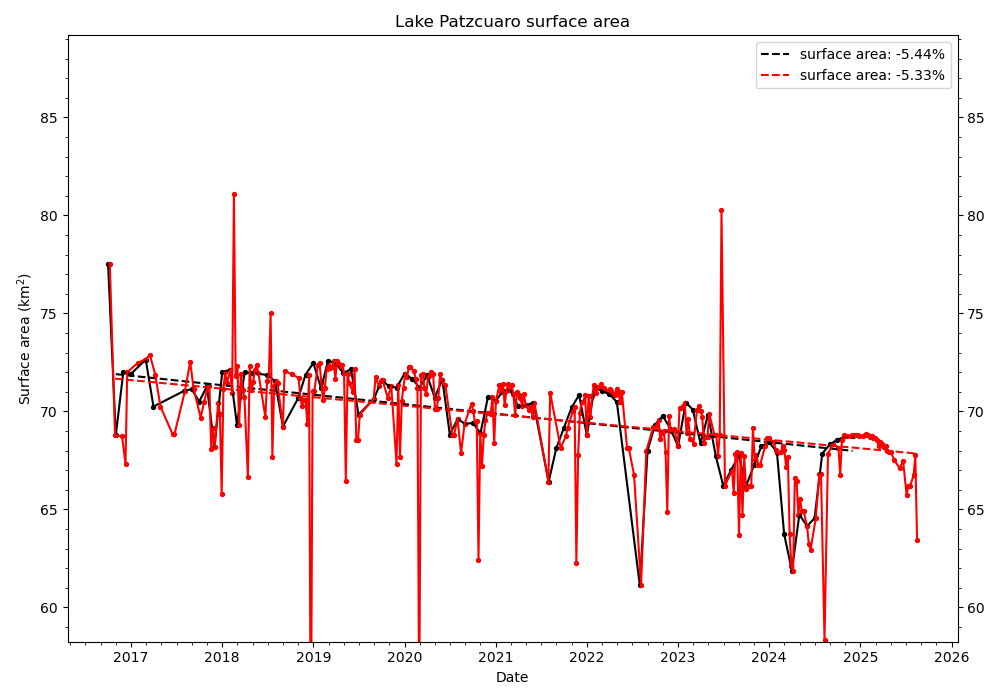
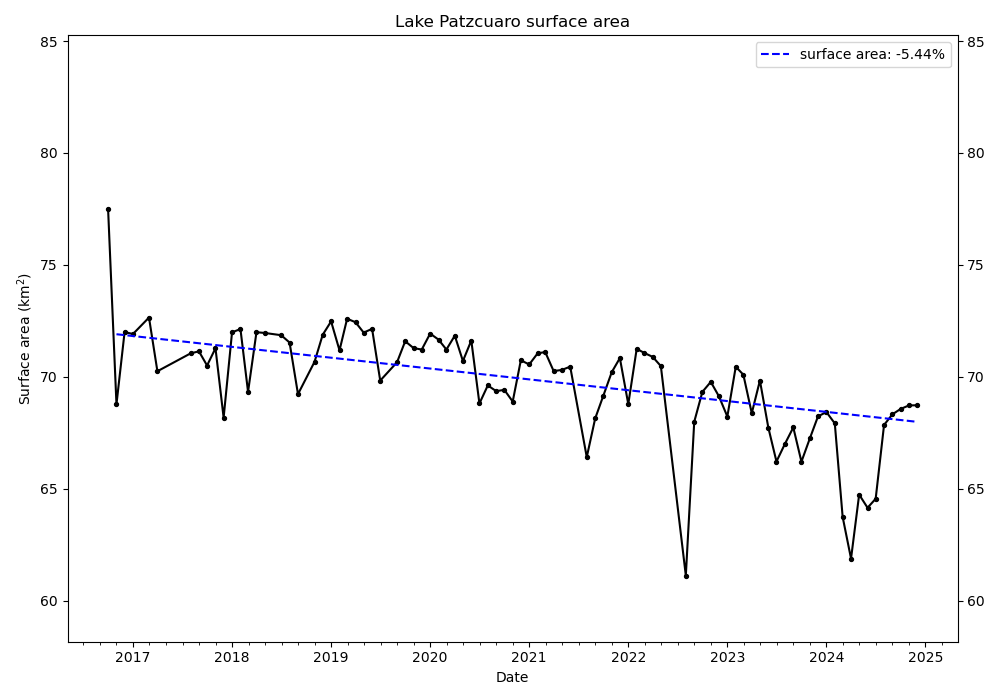
Bug correction: The last year was not considered with monthly sampling

diff --git a/extract_lake_area_in_time.py b/extract_lake_area_in_time.py
@@ -52,7 +52,7 @@ def determine_time_intervals(total_interval,sampling,bbox):
    date_e = datetime.strptime(total_interval[1],"%Y-%m-%d")
    if(sampling=="monthly"):
       intervals = []
-      for year in range(date_b.year,date_e.year,1):
+      for year in range(date_b.year,date_e.year+1,1):
          for month in range(1,13,1):
             last_day = monthrange(year, month)[1]
             date1 = datetime(year,month,1)
